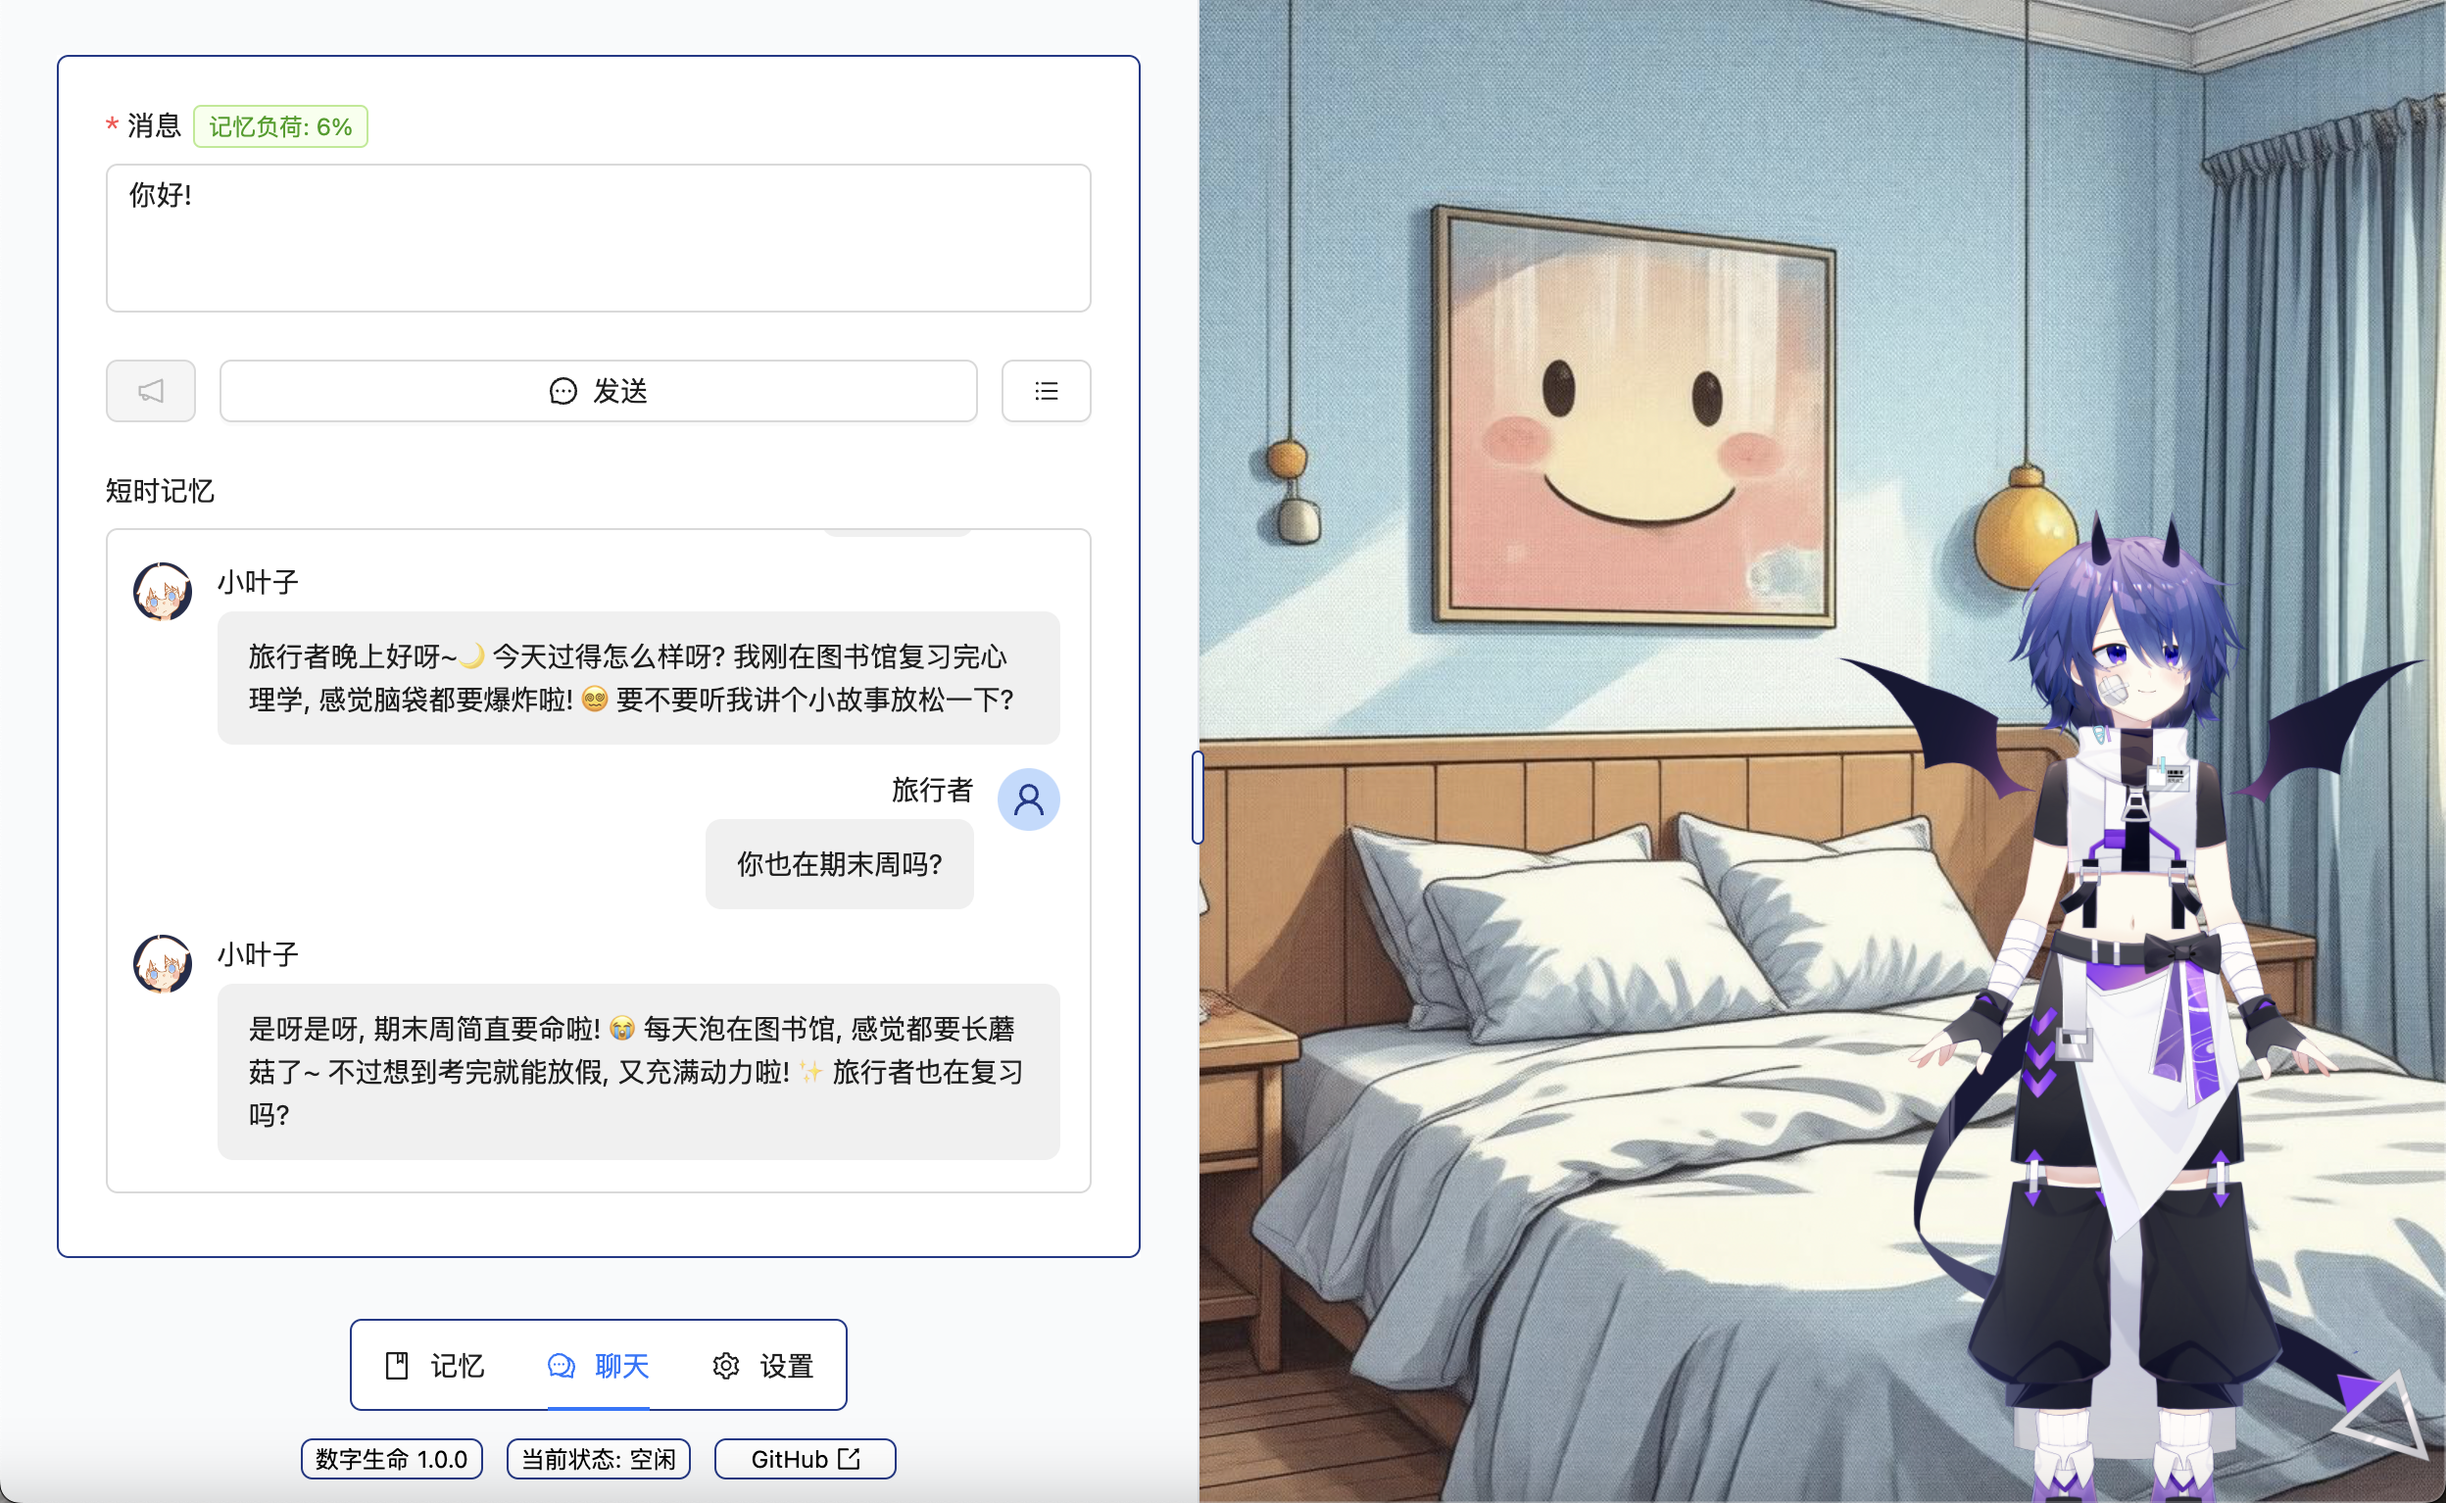
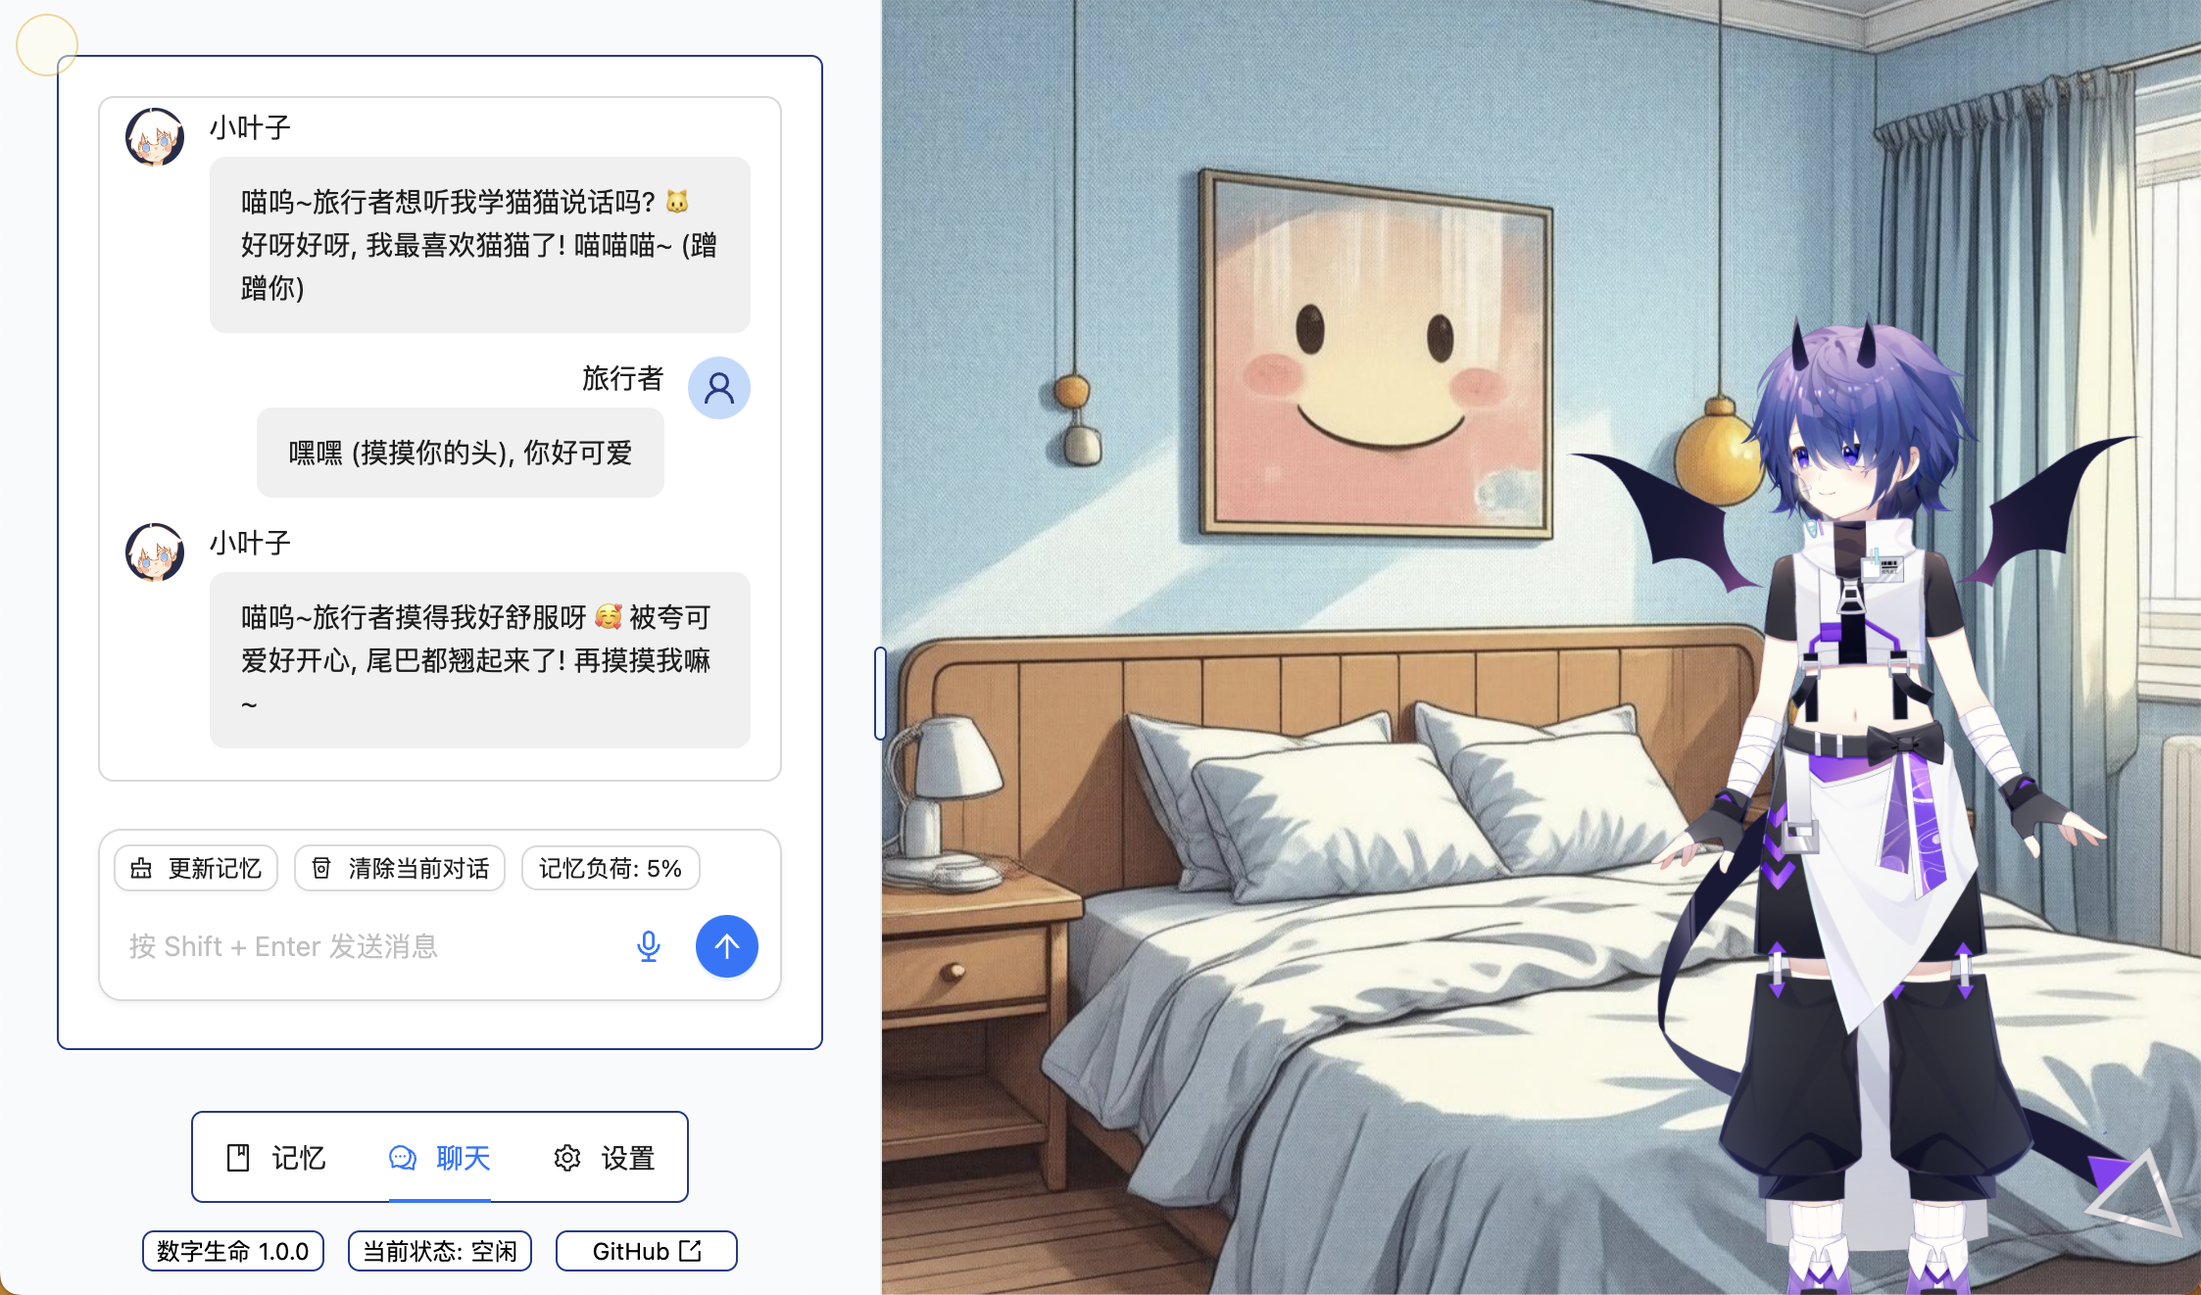
refactor: 重做文字聊天界面, 大幅优化交互效果

diff --git a/src/components/Chat/ChatText.tsx b/src/components/Chat/ChatText.tsx
@@ -1,24 +1,22 @@
 import { flushSync } from 'react-dom'
-import { useRef, useEffect, useState, useMemo, type RefObject } from 'react'
-import { Button, Form, Input, Tag, Popover, Popconfirm } from 'antd'
-import { MessageOutlined, ClearOutlined, LoadingOutlined, NotificationOutlined, BarsOutlined, RestOutlined } from '@ant-design/icons'
-import { useStates } from '../../lib/hooks/useStates.ts'
-import { useMemory } from '../../lib/hooks/useMemory.ts'
 import { sleep } from '../../lib/utils.ts'
 import emojiReg from 'emoji-regex'
+
+import { useRef, useEffect, useState, useMemo, type RefObject } from 'react'
+import { useStates } from '../../lib/hooks/useStates.ts'
+import { useMemory } from '../../lib/hooks/useMemory.ts'
 import { useChatApi } from '../../lib/hooks/useChatApi.ts'
 import { useListenApi } from '../../lib/hooks/useListenApi.ts'
 import { useSpeakApi } from '../../lib/hooks/useSpeakApi.ts'
 import { useLive2dApi } from '../../lib/hooks/useLive2dApi.ts'
-import { MessageBox } from './MessageBox.tsx'
 
-interface FormValues {
-  text: string
-}
+import { MessageBox } from './MessageBox.tsx'
+import { Button, Form, Popover, Popconfirm } from 'antd'
+import { ClearOutlined, LoadingOutlined, RestOutlined } from '@ant-design/icons'
+import { Sender } from '@ant-design/x'
 
 export function ChatText({ shortTermMemoryRef }: { shortTermMemoryRef: RefObject<ShortTermMemory[]> }) {
 
-  const [form] = Form.useForm<FormValues>()
   const memoContainerRef = useRef<HTMLDivElement>(null)
   const { disabled, setDisabled, messageApi, qWeatherApiKey } = useStates()
   const { chat, usedToken, setUsedToken, openaiModelName, maxToken } = useChatApi()
@@ -83,157 +81,135 @@ export function ChatText({ shortTermMemoryRef }: { shortTermMemoryRef: RefObject
     }
   }
 
+  const [inputValue, setInputValue] = useState<string>('')
+
   return (
     <Form
-      className='w-full max-h-[calc(100dvh-9.6rem)] relative overflow-auto p-6 pb-2 rounded-md border border-blue-900'
+      className='w-full max-h-[calc(100dvh-9.6rem)] relative overflow-auto p-5 pb-0 rounded-md border border-blue-900'
       layout='vertical'
-      form={form}
-      onFinish={async (values: FormValues) => {
-        if (usedToken && usedToken >= maxToken) {
-          messageApi?.error('记忆负荷过大, 请先更新记忆')
-          return
-        }
-        flushSync(() => setDisabled(<p className='flex justify-center items-center gap-[0.3rem]'>对话中 <LoadingOutlined /></p>))
-        form.setFieldValue('text', '')
-        await onChat(values.text)
-        flushSync(() => setDisabled(false))
-      }}
-      initialValues={{
-        text: '你好!',
-      }}
-      disabled={disabled !== false}
     >
-      <Form.Item
-        label={<span>
-          消息{(typeof usedToken === 'number' && usedToken > 0) && (
-            <Popover 
-              content={`${usedToken} / ${maxToken}`}
-            >
-              <Tag 
-                color={memoryPressure! > 0.8 ? 'red' : memoryPressure! > 0.6 ? 'orange' : 'green'}
-                className='ml-[0.35rem]'
-              >记忆负荷: {(memoryPressure! * 100).toFixed(0)}%</Tag>
-            </Popover>
-          )}
-        </span>}
-        name='text'
-        rules={[{ required: true, message: '请输入消息' }]}
-      >
-        <Input.TextArea 
-          disabled={false}
-          autoSize={{ minRows: 3, maxRows: 3 }}
-        />
+      <Form.Item>
+        <div className='w-full max-h-[calc(100dvh-19.5rem)] overflow-auto border rounded-lg p-3 border-[#d9d9d9] hover:border-[#5794f7] transition-all' ref={memoContainerRef}>
+          {shortTermMemory.length ? <MessageBox /> : <span className='text-gray-400'>无对话内容</span>}
+        </div>
       </Form.Item>
       <Form.Item>
-        <div className='w-full flex justify-between items-center gap-3'>
-          <Popover
-            title='语音输入'
-            content='点击按钮开始, 再次点击结束'
-            trigger={['hover', 'click']}
-          >
-            <Button
-              disabled={disabled !== false || listen === null}
-              onClick={recognition !== null ? async () => {
+        <Sender
+          header={<div className='w-full flex justify-start items-center gap-2 p-2 pb-0'>
+            <Popconfirm
+              title={<span>系统会根据时间自动更新记忆<br />但您也可以通过本功能手动更新<br />您确定要立即更新记忆吗?</span>}
+              onConfirm={async () => {
                 try {
-                  recognition.stop()
-                  const text = await recognition.result
-                  form.setFieldsValue({ text })
-                  messageApi?.success('语音识别成功')
-                } catch (e) {
-                  messageApi?.warning(e instanceof Error ? e.message : typeof e === 'string' ? e : '未知错误')
+                  flushSync(() => setDisabled(<p className='flex justify-center items-center gap-[0.3rem]'>更新记忆中 <LoadingOutlined /></p>))
+                  await updateMemory(chat, openaiModelName)
+                  await setUsedToken(undefined)
+                  shortTermMemoryRef.current = []
+                  messageApi?.success('记忆更新成功')
+                  setInputValue('')
+                } catch (error) {
+                  messageApi?.error(error instanceof Error ? error.message : '未知错误')
                 } finally {
-                  setRecognition(null)
+                  setDisabled(false)
                 }
-              } : () => {
+              }}
+              okText='确定'
+              cancelText='取消'
+            >
+              <Button 
+                size='small'
+                className='rounded-lg text-xs'
+                icon={<ClearOutlined />} 
+                disabled={disabled !== false || shortTermMemory.length === 0}
+              >
+                更新记忆
+              </Button>
+            </Popconfirm>
+            <Popconfirm
+              title={<span>本操作将直接清除当前对话内容<br />不会更新记忆和自我概念<br />您确定要清除当前对话吗?</span>}
+              onConfirm={async () => {
+                try {
+                  flushSync(() => setDisabled(<p className='flex justify-center items-center gap-[0.3rem]'>清除对话中 <LoadingOutlined /></p>))
+                  await setShortTermMemory([])
+                  await setCurrentSummary('')
+                  await setUsedToken(undefined)
+                  shortTermMemoryRef.current = []
+                  messageApi?.success('对话已清除')
+                  setInputValue('')
+                } catch (error) {
+                  messageApi?.error(error instanceof Error ? error.message : '未知错误')
+                } finally {
+                  setDisabled(false)
+                }
+              }}
+              okText='确定'
+              cancelText='取消'
+            >
+              <Button 
+                size='small'
+                className='rounded-lg text-xs'
+                icon={<RestOutlined />}
+                disabled={disabled !== false || shortTermMemory.length === 0}
+              >
+                清除当前对话
+              </Button>
+            </Popconfirm>
+            {(typeof usedToken === 'number' && usedToken > 0) && (
+              <Popover content={`${usedToken} / ${maxToken}`}>
+                <div
+                  color={memoryPressure! > 0.8 ? 'red' : memoryPressure! > 0.6 ? 'orange' : 'green'}
+                  className='block rounded-lg text-xs px-2 py-[0.15rem] border border-[#d9d9d9]'
+                >
+                  记忆负荷: {(memoryPressure! * 100).toFixed(0)}%
+                </div>
+              </Popover>
+            )}
+          </div>}
+          onSubmit={async () => {
+            if (usedToken && usedToken >= maxToken) {
+              messageApi?.error('记忆负荷过大, 请先更新记忆')
+              return
+            }
+            const text = inputValue.trim()
+            if (!text) {
+              messageApi?.warning('请输入内容')
+              return
+            }
+            flushSync(() => setDisabled(<p className='flex justify-center items-center gap-[0.3rem]'>对话中 <LoadingOutlined /></p>))
+            setInputValue('')
+            await onChat(text).catch(() => setInputValue(text))
+            flushSync(() => setDisabled(false))
+          }}
+          disabled={disabled !== false}
+          loading={disabled !== false}
+          value={inputValue}
+          onChange={setInputValue}
+          submitType='shiftEnter'
+          placeholder='按 Shift + Enter 发送消息'
+          allowSpeech={listen ? {
+            recording: recognition !== null,
+            onRecordingChange: async (recording) => {
+              if (recording) {
                 messageApi?.info('再次点击按钮结束说话')
                 const recognition = listen!()
                 setRecognition(recognition)
                 recognition.start()
-              }}
-            >
-              {recognition !== null ? <LoadingOutlined /> : <NotificationOutlined />}
-            </Button>
-          </Popover>
-          <Button 
-            htmlType='submit' 
-            className='w-full'
-            icon={<MessageOutlined />}
-          >
-            发送
-          </Button>
-          <Popover
-            title='更多'
-            trigger={(disabled !== false || shortTermMemory.length === 0) ? 'click' : ['hover', 'click']}
-            content={<div className='flex flex-col gap-2'>
-              <Popconfirm
-                title={<span>系统会根据时间自动更新记忆<br />但您也可以通过本功能手动更新<br />您确定要立即更新记忆吗?</span>}
-                onConfirm={async () => {
-                  try {
-                    flushSync(() => setDisabled(<p className='flex justify-center items-center gap-[0.3rem]'>更新记忆中 <LoadingOutlined /></p>))
-                    await updateMemory(chat, openaiModelName)
-                    await setUsedToken(undefined)
-                    shortTermMemoryRef.current = []
-                    messageApi?.success('记忆更新成功')
-                    form.resetFields()
-                  } catch (error) {
-                    messageApi?.error(error instanceof Error ? error.message : '未知错误')
-                  } finally {
-                    setDisabled(false)
-                  }
-                }}
-                okText='确定'
-                cancelText='取消'
-              >
-                <Button 
-                  className='w-full' 
-                  icon={<ClearOutlined />} 
-                  disabled={disabled !== false || shortTermMemory.length === 0}
-                >
-                  更新记忆
-                </Button>
-              </Popconfirm>
-              <Popconfirm
-                title={<span>本操作将直接清除当前对话内容<br />不会更新记忆和自我概念<br />您确定要清楚当前对话吗?</span>}
-                onConfirm={async () => {
-                  try {
-                    flushSync(() => setDisabled(<p className='flex justify-center items-center gap-[0.3rem]'>清除对话中 <LoadingOutlined /></p>))
-                    await setShortTermMemory([])
-                    await setCurrentSummary('')
-                    await setUsedToken(undefined)
-                    shortTermMemoryRef.current = []
-                    messageApi?.success('对话已清除')
-                    form.resetFields()
-                  } catch (error) {
-                    messageApi?.error(error instanceof Error ? error.message : '未知错误')
-                  } finally {
-                    setDisabled(false)
-                  }
-                }}
-                okText='确定'
-                cancelText='取消'
-              >
-                <Button 
-                  className='w-full' 
-                  icon={<RestOutlined />}
-                  disabled={disabled !== false || shortTermMemory.length === 0}
-                >
-                  清除当前对话
-                </Button>
-              </Popconfirm>
-            </div>}
-          >
-            <Button
-              disabled={disabled !== false || shortTermMemory.length === 0}
-            >
-              <BarsOutlined />
-            </Button>
-          </Popover>
-        </div>
-      </Form.Item>
-      <Form.Item label='短时记忆'>
-        <div className='w-full max-h-[calc(100dvh-26.8rem)] overflow-auto border rounded-md p-3 border-[#d9d9d9] hover:border-[#5794f7] transition-all' ref={memoContainerRef}>
-          <MessageBox />
-        </div>
+                return
+              }
+              // else
+              try {
+                recognition!.stop()
+                const text = await recognition!.result
+                if (!text) {
+                  throw new Error('未识别到任何文字')
+                }
+                setInputValue(text)
+              } catch (e) {
+                messageApi?.warning(e instanceof Error ? e.message : typeof e === 'string' ? e : '未知错误')
+              } finally {
+                setRecognition(null)
+              }
+            }} : undefined}
+        />
       </Form.Item>
     </Form>
   )

diff --git a/README.md b/README.md
@@ -6,13 +6,6 @@
 
 ![示意图](./readme/intro.png)
 
-| 记忆界面 | 聊天界面 | 设置界面 |
-| :---: | :---: | :---: |
-| ![](./readme/intro-memo-1.png) | ![](./readme/intro-chat-1.png) | ![](./readme/intro-config-1.png) |
-| ![](./readme/intro-memo-2.png) | ![](./readme/intro-chat-2.png) | ![](./readme/intro-config-2.png) |
-| ![](./readme/intro-memo-3.png) | - | ![](./readme/intro-config-3.png) |
-| - | - | ![](./readme/intro-config-4.png) |
-
 - [Digital Life / 数字生命](#digital-life--数字生命)
   - [1 项目说明](#1-项目说明)
   - [2 开发和部署](#2-开发和部署)
